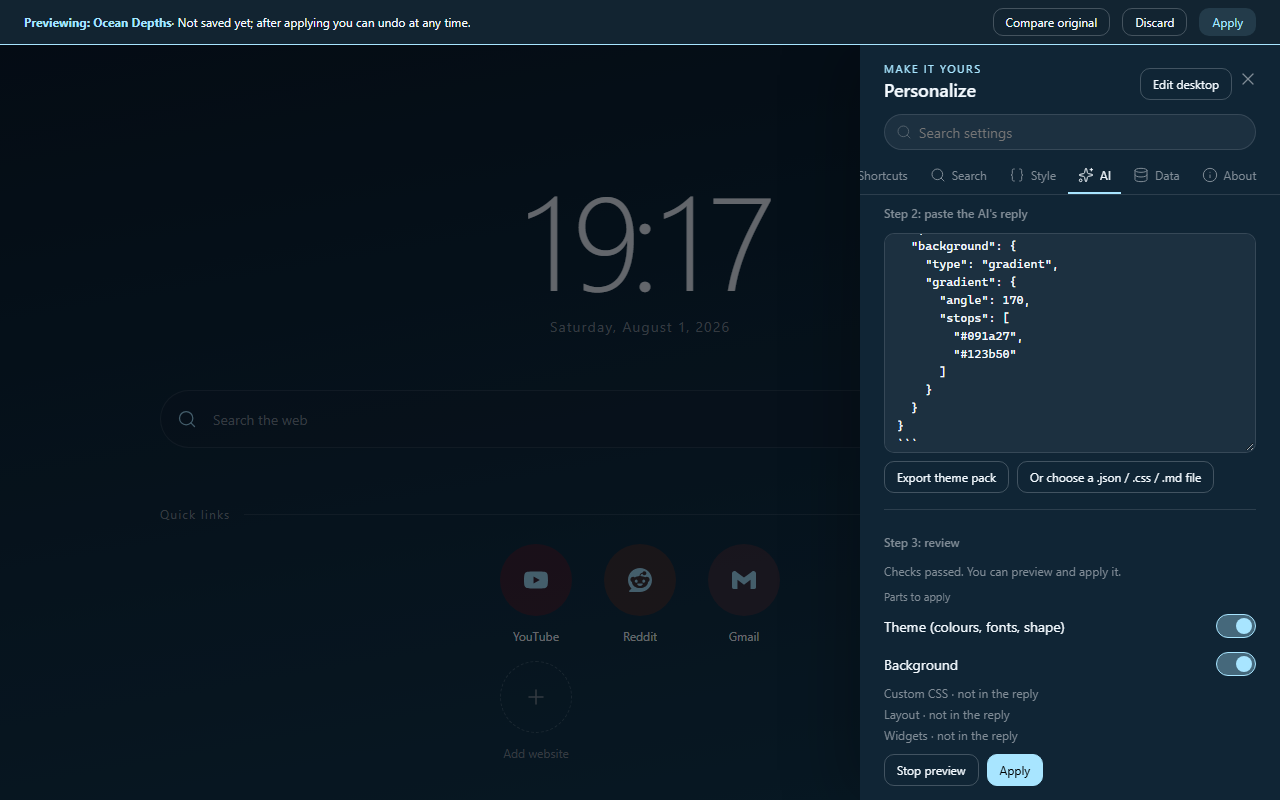
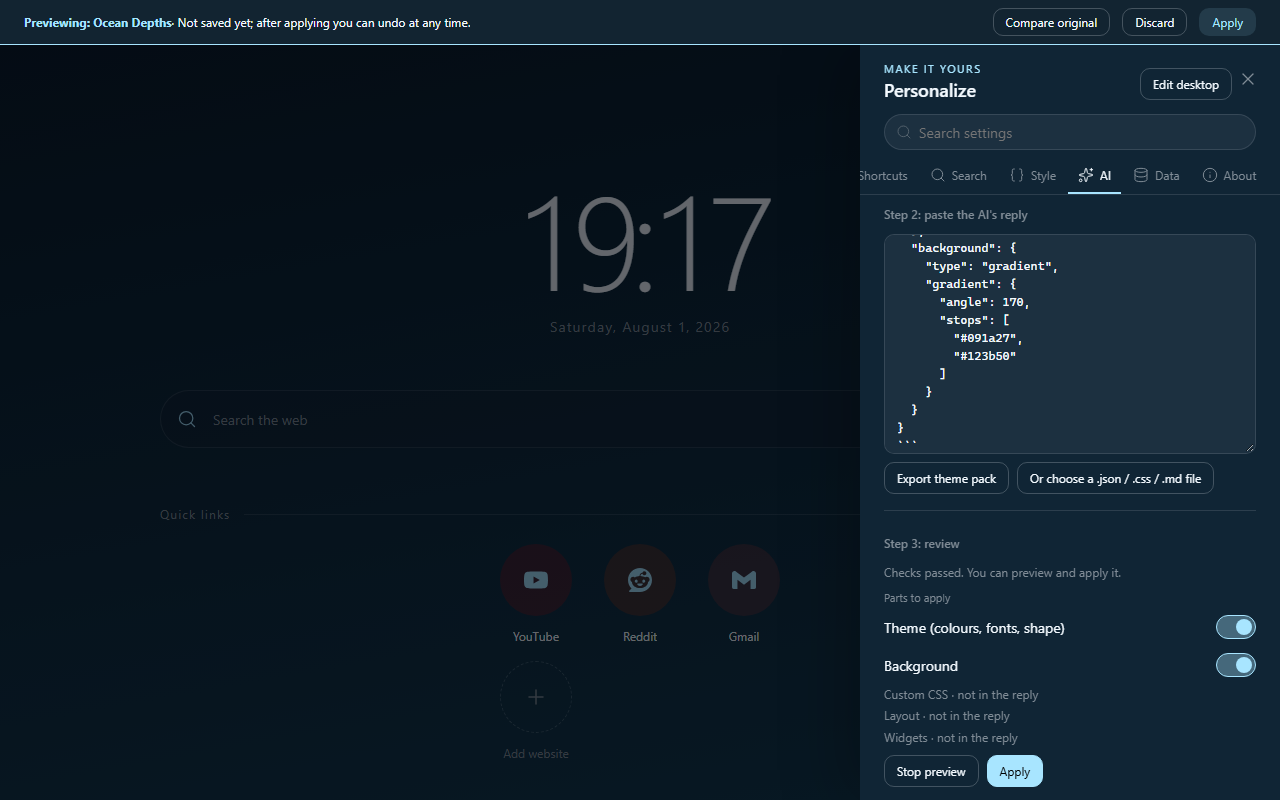
docs: refresh 0.10.0 release materials

diff --git a/docs/privacy/index.html b/docs/privacy/index.html
@@ -30,7 +30,7 @@
       <h2>Privacy policy</h2>
       <p>Promptab is available as a browser extension and a separately hosted web app. The developer does not collect user data. Promptab has no account system, advertising SDK, analytics, telemetry, or developer-operated application server.</p>
       <h3>Extension and web data are separate</h3>
-      <p>The extension stores settings, profiles, bookmarks and shortcuts, layouts, themes, custom CSS, imported themes, and locally added images and fonts in browser-managed extension storage. The web version stores its settings in that website's local storage and its larger assets in browser-local IndexedDB. These stores are separate: using the same browser does not automatically share settings between the extension and web app. Neither sends saved settings to a Promptab server.</p>
+      <p>The extension stores settings and preferences (including keyboard shortcuts and accent behavior), profiles, bookmarks and shortcuts, layouts, themes, custom CSS, saved and imported themes, and locally added images and fonts in browser-managed extension storage. The web version stores its settings in that website's local storage and its larger assets in browser-local IndexedDB. These stores are separate: using the same browser does not automatically share settings between the extension and web app. These features do not contact a Promptab service. Saved themes stay local and are not part of Browser Sync.</p>
       <p>To migrate between versions, export a backup from <strong>Settings → Data → Export backup</strong>, save the file, then use the other version's import control. Import validates the backup before applying it. Backups are files you control; protect or delete them as you choose. Extension-only features such as Browser Sync and browser bookmark import are unavailable on the web version because it has no extension permission APIs.</p>
       <h3>Optional extension bookmark access</h3>
       <p>The extension's <code>bookmarks</code> permission is optional and requested only when you start browser-bookmark import. If granted, Promptab reads the bookmark tree to show available folders, then copies the folders and links you select into the extension's local profile. It does not continuously monitor bookmarks. The web version cannot request this extension permission.</p>
@@ -38,14 +38,14 @@
       <p>Promptab does not run a general data-collection channel. Features you choose can contact other services directly:</p>
       <ul>
         <li>Automatic extension icons use the browser's favicon endpoint when available. The fallback requests <code>/favicon.ico</code> from the shortcut's website. The web version does not have the extension favicon permission; opening shortcuts still contacts their websites.</li>
-        <li>Searches navigate to your selected provider with your query. Remote wallpapers and imported remote images are fetched from their configured URLs.</li>
+        <li>Searches navigate to your selected provider with your query. Wallpaper and shortcut images are managed locally; Promptab does not fetch remote wallpaper or shortcut-image URLs.</li>
         <li>Opening the theme gallery fetches its list from <code>zanderh-code.github.io</code>; selecting a theme fetches its pack from the same host. The list is cached locally for offline browsing.</li>
         <li>The optional weather widget contacts Open-Meteo only after you use a weather action. City search sends the city name to <code>geocoding-api.open-meteo.com</code>; loading weather sends coordinates to <code>api.open-meteo.com</code>. Location is requested only after you click its button, with no background tracking. Weather is cached locally for at least 30 minutes.</li>
         <li>If you choose direct BYOK sending, the browser sends your prompt, selected model, and API key directly to <code>api.anthropic.com</code> or <code>api.openai.com</code>. The web app makes these requests from the browser without a Promptab relay. Anthropic requests include the <code>anthropic-dangerous-direct-browser-access: true</code> header required for direct browser requests; OpenAI requests use bearer authentication. The provider receives the request and handles it under its own terms and privacy policy; API charges may apply.</li>
       </ul>
       <p>BYOK keys are held only in the active page session's memory. They are not written to browser storage or uploaded to Promptab, and are cleared when the page session ends. Promptab does not use feature requests for analytics or sell personal information.</p>
       <h3>Browser Sync and deletion</h3>
-      <p>Browser Sync is an extension-only feature and is off by default. If enabled, shortcut/group data, theme settings, layout and update metadata are written to <code>chrome.storage.sync</code>, which Chrome processes for your signed-in browser account under Google's terms. Wallpaper, video, uploaded fonts and bookmark images stay in local IndexedDB. The web version does not support Browser Sync. Use each version's reset controls or the browser's site/extension data controls to remove local data. Uninstalling removes extension storage subject to browser behavior; exported backups remain wherever saved. This policy may change when data practices change. The Promptab repository provides project contact details.</p>
+      <p>Browser Sync is an extension-only feature and is off by default. If enabled, profile preferences (including keyboard-shortcut and accent-on-open settings), shortcut/group data, theme settings, layout and update metadata are written to <code>chrome.storage.sync</code>, which Chrome processes for your signed-in browser account under Google's terms. Saved themes, wallpaper, video, uploaded fonts and bookmark images stay local and are not synced. The web version does not support Browser Sync. Use each version's reset controls or the browser's site/extension data controls to remove local data. Uninstalling removes extension storage subject to browser behavior; exported backups remain wherever saved. This policy may change when data practices change. The Promptab repository provides project contact details.</p>
     </section>
     <section id="chinese" lang="zh-CN">
       <h2>隐私政策</h2>
@@ -59,14 +59,14 @@
       <p>Promptab 不会通过通用渠道收集数据。你主动使用的功能可能直接联系其他服务：</p>
       <ul>
         <li>扩展的自动网站图标会在可用时使用浏览器 favicon 接口，后备方式会请求快捷方式网站的 <code>/favicon.ico</code>。网页版没有扩展 favicon 权限；打开快捷方式仍会访问相应网站。</li>
-        <li>搜索会携带查询内容跳转到你选择的搜索服务。远程壁纸或导入的远程图片会从配置的网址获取。</li>
+        <li>搜索会携带查询内容跳转到你选择的搜索服务。壁纸和快捷方式图片由本地管理；Promptab 不会获取远程壁纸或快捷方式图片网址。</li>
         <li>打开主题画廊时会从 <code>zanderh-code.github.io</code> 获取主题列表；选择主题时会从同一主机获取主题包。列表会缓存在本地，供离线浏览。</li>
         <li>可选天气组件只在你使用相关操作后联系 Open-Meteo。城市搜索会向 <code>geocoding-api.open-meteo.com</code> 发送城市名称；加载天气会向 <code>api.open-meteo.com</code> 发送坐标。只有点击定位按钮后才请求位置，不会在后台持续跟踪。天气至少在本地缓存 30 分钟。</li>
         <li>如选择 BYOK 直连，你的提示、所选模型和 API 密钥会由浏览器直接发送到 <code>api.anthropic.com</code> 或 <code>api.openai.com</code>，不经过 Promptab 中转。Anthropic 请求会带有其浏览器直连所需的 <code>anthropic-dangerous-direct-browser-access: true</code> 请求头；OpenAI 请求使用 Bearer 身份验证。服务提供商会依据自己的条款和隐私政策处理请求，API 使用可能收费。</li>
       </ul>
       <p>BYOK 密钥只保留在当前页面会话的内存中，不写入浏览器存储，也不会上传给 Promptab；页面会话结束后即被清除。Promptab 不使用这些功能请求进行分析，也不出售个人信息。</p>
       <h3>浏览器同步与数据删除</h3>
-      <p>浏览器同步仅适用于扩展，默认关闭。启用后，快捷方式/分组、主题设置、布局和更新时间会写入 <code>chrome.storage.sync</code>，由 Chrome 根据 Google 条款为你已登录的浏览器账号处理。壁纸、视频、上传的字体和书签图片仍保存在本地 IndexedDB。网页版不支持浏览器同步。你可以使用各版本的重置控件，或浏览器的站点/扩展数据设置删除本地数据。卸载扩展会删除浏览器管理的扩展存储，具体取决于浏览器行为；导出的备份仍保留在保存位置。如果数据处理方式发生变化，本政策可能更新。项目联系信息见 Promptab 仓库。</p>
+      <p>浏览器同步仅适用于扩展，默认关闭。启用后，配置偏好（包括键盘快捷键和打开时的强调色设置）、快捷方式/分组、主题设置、布局和更新时间会写入 <code>chrome.storage.sync</code>，由 Chrome 根据 Google 条款为你已登录的浏览器账号处理。已保存主题、壁纸、视频、上传的字体和书签图片仍保存在本地，不会同步。网页版不支持浏览器同步。你可以使用各版本的重置控件，或浏览器的站点/扩展数据设置删除本地数据。卸载扩展会删除浏览器管理的扩展存储，具体取决于浏览器行为；导出的备份仍保留在保存位置。如果数据处理方式发生变化，本政策可能更新。项目联系信息见 Promptab 仓库。</p>
     </section>
   </main>
 </body>

diff --git a/e2e/mobile.spec.ts b/e2e/mobile.spec.ts
@@ -137,8 +137,14 @@ test('touch controls meet the 44 pixel target size', async ({ page }) => {
   await page.getByRole('dialog', { name: 'Settings' }).getByRole('button', { name: 'Edit desktop' }).click()
   await page.mouse.move(0, 0)
   await expect(page.locator('.shortcut-actions').first()).toHaveCSS('opacity', '1')
-  for (const target of await page.locator('.shortcut-actions button, .drag-handle').all()) {
+  await expect(page.locator('.drag-handle').first()).toBeEnabled()
+  const shortcutControls = page.locator('.shortcut-actions button, .drag-handle')
+  const controlCount = await shortcutControls.count()
+  for (let index = 0; index < controlCount; index++) {
+    const target = shortcutControls.nth(index)
+    await expect(target).toBeVisible()
     const box = await target.boundingBox()
+    expect(box).not.toBeNull()
     expect(box!.width).toBeGreaterThanOrEqual(44)
     expect(box!.height).toBeGreaterThanOrEqual(44)
   }

diff --git a/store/privacy-policy.md b/store/privacy-policy.md
@@ -6,7 +6,7 @@ Promptab is a browser new-tab extension. It is designed to keep user data in the
 
 ## Data stored on your device
 
-The extension stores its settings, profiles, bookmarks/shortcuts, layout and theme choices, custom CSS, imported theme data, and locally added images or fonts in the browser's extension storage. It may use the `unlimitedStorage` permission so larger profiles and locally stored assets can be retained. Browser storage is used locally; the project does not send this stored data to a developer-operated service.
+The extension stores its settings and preferences (including keyboard shortcuts and accent behavior), profiles, bookmarks/shortcuts, layout and theme choices, custom CSS, saved and imported themes, and locally added images or fonts in browser-managed storage. These features do not contact a Promptab service. Saved themes remain local and are not part of Browser Sync. If you enable Browser Sync, profile preferences are included in the data sent to your browser's sync service.
 
 The separately hosted web version has its own browser-local storage and IndexedDB. Its data is separate from extension storage, even in the same browser, and neither version sends saved settings to a Promptab server. Browser Sync and browser-bookmark import depend on extension APIs and are unavailable in the web version.
 
@@ -21,10 +21,9 @@ The extension does not operate a general background data-collection channel. Net
 - When a shortcut uses automatic website icons, the extension first uses the browser's extension favicon endpoint (`/_favicon/`, through the browser favicon API) where available. Its fallback requests the shortcut site's origin at `/favicon.ico`. Those requests can reveal the relevant URL to the browser and, for the fallback, to that website's server. A custom icon or manually selected icon mode can avoid these favicon requests.
 - When you submit a search, the browser navigates to the search URL template configured in your settings. Your query is sent to the search provider you selected, under that provider's privacy policy.
 - When you open a shortcut, the browser navigates to that website. The destination receives the request according to its own policies.
-- If you choose a remote wallpaper or import a remote image into a shortcut, the browser fetches that URL so the image can be displayed and stored locally. The remote host may receive the request.
 - The optional weather widget contacts Open-Meteo only after you click a weather action. City search sends the city name to `https://geocoding-api.open-meteo.com/*`. Loading weather sends the selected city's coordinates, or coordinates from a one-time location request, to `https://api.open-meteo.com/*`. Current location is requested only after you click the location button; the extension does not track location in the background. Weather responses are cached locally for at least 30 minutes and may be shown with their last-updated time when offline.
 
-When you enable Browser Sync in Settings, the extension writes only shortcut/group data, theme settings, profile layout and update metadata to the browser's `storage.sync` API. Your browser's sync service processes that data for your signed-in browser account under its provider's terms. Wallpaper images and video, uploaded fonts, and bookmark images remain in local IndexedDB and are not included. Sync is off by default; turning it off stops synchronization on that device. You can separately remove Promptab's browser sync data. The extension does not send these sync records to a Promptab server.
+When you enable Browser Sync in Settings, the extension writes profile preferences, shortcut/group data, theme settings, profile layout and update metadata to the browser's `storage.sync` API. This includes keyboard-shortcut and accent-on-open preferences. Your browser's sync service processes that data for your signed-in browser account under its provider's terms. Saved themes, wallpaper images and video, uploaded fonts, and bookmark images remain local and are not included. Sync is off by default; turning it off stops synchronization on that device. You can separately remove Promptab's browser sync data. The extension does not send these sync records to a Promptab server.
 
 The extension does not sell personal information or use these direct feature requests for its own analytics.
 
@@ -36,7 +35,7 @@ Backup and export actions create files or copied data only when you request them
 
 The web app stores settings in that site's local storage and larger assets in browser-local IndexedDB. This store is separate from extension storage. To migrate a setup between the web app and extension, export a backup through **Settings → Data → Export backup**, then import the file in the other version. Import validates the backup before applying it. Backups remain under your control.
 
-The web app has no extension APIs, so Browser Sync and browser-bookmark import are unavailable. The app can contact services when you use their features: the GitHub Pages host for the theme gallery and selected packs; Open-Meteo for city searches and weather after you request it; search providers, shortcut sites and image hosts when you open or load their URLs; and Anthropic or OpenAI when you choose direct BYOK sending. The web BYOK request goes directly from your browser to the selected provider, including Anthropic's `anthropic-dangerous-direct-browser-access: true` header for Anthropic requests. Provider terms, privacy policies and charges apply. The site host serves the static page and assets; it does not receive your saved app settings through a Promptab application server.
+The web app has no extension APIs, so Browser Sync and browser-bookmark import are unavailable. The app can contact services when you use their features: the GitHub Pages host for the theme gallery and selected packs; Open-Meteo for city searches and weather after you request it; search providers and shortcut sites when you open their URLs; and Anthropic or OpenAI when you choose direct BYOK sending. The web BYOK request goes directly from your browser to the selected provider, including Anthropic's `anthropic-dangerous-direct-browser-access: true` header for Anthropic requests. Provider terms, privacy policies and charges apply. The site host serves the static page and assets; it does not receive your saved app settings through a Promptab application server.
 
 ## Data deletion
 
@@ -54,10 +53,10 @@ This policy is informational and is not legal advice.
 
 Promptab 不包含账号、广告 SDK、分析或遥测服务。设置、配置文件、书签/快捷方式、主题、自定义 CSS 以及本地图片和字体保存在浏览器扩展存储中。`bookmarks` 权限为可选权限，仅在你主动选择导入浏览器书签时请求；拒绝后仍可使用其他功能。
 
-浏览器同步默认关闭。启用后，快捷方式/分组、主题设置、布局和更新时间会写入浏览器的 `storage.sync` 接口，由浏览器同步服务根据其提供商的条款为你已登录的浏览器账号处理。壁纸、视频、上传的字体和书签图片仍保存在本地 IndexedDB。关闭同步只会停止当前设备的同步；你可以另行删除 Promptab 的同步数据。扩展不会把同步记录发送到 Promptab 服务器。
+浏览器同步默认关闭。启用后，配置偏好（包括键盘快捷键和打开时的强调色行为）、快捷方式/分组、主题设置、布局和更新时间会写入浏览器的 `storage.sync` 接口，由浏览器同步服务根据其提供商的条款为你已登录的浏览器账号处理。已保存主题、壁纸、视频、上传的字体和书签图片仍保存在本地，不会同步。关闭同步只会停止当前设备的同步；你可以另行删除 Promptab 的同步数据。扩展不会把同步记录发送到 Promptab 服务器。
 
 AI 工作台可以手动复制提示包，也可以使用你自己的 API 密钥直接发送给 Anthropic 或 OpenAI。点击发送时会请求所选服务商域名的可选访问权限，并向其发送提示包、模型和密钥；提示包包含你的需求，不会自动附带当前主题、CSS 或书签；你在需求中输入的内容会被包含。密钥仅保留在当前页面会话内存中，不写入浏览器存储，也不会上传给 Promptab；页面会话结束后即被清除。Anthropic 浏览器直连请求会带有 `anthropic-dangerous-direct-browser-access: true` 请求头。服务商的隐私政策和收费标准适用，API 使用可能产生费用。
 
-网页版将设置保存在网站本地存储中，并将较大的资源保存在浏览器本地 IndexedDB 中，与扩展存储分开。可通过「设置 → 数据 → 导出备份」再在另一个版本中导入来迁移配置。网页版不支持依赖扩展 API 的浏览器同步和浏览器书签导入。使用画廊、天气、搜索、快捷方式、远程图片或 BYOK 时，浏览器会直接联系相应的网站或服务提供商；提供商条款和隐私政策适用。
+网页版将设置保存在网站本地存储中，并将较大的资源保存在浏览器本地 IndexedDB 中，与扩展存储分开。可通过「设置 → 数据 → 导出备份」再在另一个版本中导入来迁移配置。网页版不支持依赖扩展 API 的浏览器同步和浏览器书签导入。使用画廊、天气、搜索、快捷方式或 BYOK 时，浏览器会直接联系相应的网站或服务提供商；提供商条款和隐私政策适用。
 
-自动网站图标会优先使用浏览器的 favicon 接口，并可能回退请求相应网站 origin 的 `/favicon.ico`。搜索提交会把查询发送到你配置的搜索服务，打开快捷方式会访问对应网站；远程壁纸或远程图片导入也会向相应地址发起请求。可选天气组件只在你点击相关操作后联系 Open-Meteo：城市搜索会发送城市名称，加载天气会发送所选城市坐标或一次性定位得到的坐标。只有点击定位按钮后才请求当前位置，不会在后台持续跟踪。天气结果至少在本地缓存 30 分钟，离线时可以显示缓存和更新时间。这些请求由你主动使用的功能触发，并受目标服务的隐私政策约束。扩展本身不通过这些请求进行分析或出售个人信息。
+自动网站图标会优先使用浏览器的 favicon 接口，并可能回退请求相应网站 origin 的 `/favicon.ico`。搜索提交会把查询发送到你配置的搜索服务，打开快捷方式会访问对应网站。壁纸和快捷方式图片在本地管理，不会从远程网址获取。可选天气组件只在你点击相关操作后联系 Open-Meteo：城市搜索会发送城市名称，加载天气会发送所选城市坐标或一次性定位得到的坐标。只有点击定位按钮后才请求当前位置，不会在后台持续跟踪。天气结果至少在本地缓存 30 分钟，离线时可以显示缓存和更新时间。这些请求由你主动使用的功能触发，并受目标服务的隐私政策约束。扩展本身不通过这些请求进行分析或出售个人信息。

diff --git a/store/listing.md b/store/listing.md
@@ -4,23 +4,25 @@
 
 ### Short description
 
-Your new tab, designed by your AI.
+A new tab for your themes, shortcuts, and daily flow.
 
 ### Full description
 
 **Describe it. Preview it. Make it yours.** Promptab turns your new tab into a customizable home for the things you use every day. Ask an AI assistant to design a theme, paste its reply, and preview the result before applying it. The manual workflow needs no Promptab account or API key. You can also send a request directly to Anthropic or OpenAI with your own session-only API key; provider charges may apply.
 
-- Build a dashboard with clocks, dates, search, shortcuts, bookmark groups, and flexible layouts.
-- Browse the theme gallery, preview themes, and personalize colors, fonts, shapes, and CSS.
+- Build a dashboard with clocks, dates, week numbers, search, shortcuts, bookmark groups, and flexible layouts.
+- Browse the public theme gallery, preview themes, and try them in the hosted web app or installable PWA.
+- Personalize colors, fonts, shapes, and CSS; export theme packs or save themes locally for later.
 - Add local image or video wallpapers and rotate a selection of wallpapers.
 - Add Todo, Note, Countdown, and optional weather widgets. Weather requests happen only after you choose a weather action.
-- Keep separate profiles, undo changes, and export or restore a backup.
-- Opt in to browser sync for profile settings and shortcuts across signed-in devices. Wallpapers, videos, fonts, and uploaded shortcut images stay local.
+- Set new-tab links to open where you prefer, use keyboard shortcuts, and choose an accent on open or cycle through its palette.
+- Keep separate profiles, undo changes, and restore selected backup sections with one undo action.
+- Opt in to browser sync for profile preferences, theme settings, layout, and shortcuts across signed-in devices. Wallpapers, videos, fonts, uploaded shortcut images, and saved themes stay local.
 - Import selected browser-bookmark folders only after granting the optional bookmarks permission.
 - Choose automatic website icons, brand icons, Lucide icons, text, emoji, or your own images.
-- Use the extension in English or Simplified Chinese. A separate desktop Firefox build is available.
+- Use the extension in English or Simplified Chinese. A separate desktop Firefox build is available, with touch-friendly mobile layouts and group menus.
 
-Promptab stores its data in browser-managed extension storage and has no Promptab account, advertising SDK, analytics, or developer-operated application server. Opening the gallery fetches its index and selected packs from zanderh-code.github.io. When you use optional features, the selected AI provider receives the prompt, model, and API key; Open-Meteo receives the city or coordinates used for weather; and your browser's sync service processes synced profile data. Search providers, shortcut destinations, favicon sites, and configured remote image hosts receive the requests needed for those features.
+Promptab stores its data in browser-managed extension storage and has no Promptab account, advertising SDK, analytics, or developer-operated application server. Opening the gallery fetches its index and selected packs from zanderh-code.github.io. When you use optional features, the selected AI provider receives the prompt, model, and API key; Open-Meteo receives the city or coordinates used for weather; and your browser's sync service processes synced profile data. Search providers, shortcut destinations, and favicon sites receive the requests needed for those features. Wallpaper images and shortcut images are stored locally; Promptab does not fetch remote wallpaper or shortcut-image URLs.
 
 ### Permissions
 
@@ -32,7 +34,7 @@ Promptab stores its data in browser-managed extension storage and has no Prompta
 
 ### Firefox Add-ons (AMO)
 
-**Summary:** A customizable new tab with AI-assisted themes, shortcuts, widgets, optional weather, and browser sync.
+**Summary:** A customizable new tab with a public theme gallery, saved and shareable themes, flexible layouts, shortcuts, widgets, optional weather, keyboard controls, and browser sync.
 
 **Category:** Productivity
 
@@ -44,23 +46,25 @@ Promptab stores its data in browser-managed extension storage and has no Prompta
 
 ### 短描述
 
-一句话，让你的 AI 帮你设计新标签页。
+主题、快捷方式与日常安排，都放进新标签页。
 
 ### 完整介绍
 
 **描述想法、预览效果，打造属于你的新标签页。** Promptab 让你自定义每天都会使用的主页。你可以让 AI 助手设计主题、粘贴回复，并在应用前预览。手动复制粘贴不需要 Promptab 账号或 API 密钥；也可以使用仅保存在当前界面会话中的密钥直接发送给 Anthropic 或 OpenAI，服务商可能收费。
 
-- 使用时钟、日期、搜索、快捷方式和书签分组搭建主页，自由调整布局。
-- 浏览主题画廊，在应用前预览，并调整颜色、字体、形状和 CSS。
+- 使用时钟、日期、周数、搜索、快捷方式和书签分组搭建主页，自由调整布局。
+- 浏览公开主题画廊，在应用前预览，也可在网页版试用主题；网页版支持安装为 PWA。
+- 调整颜色、字体、形状和 CSS；导出主题包分享，或在本地保存主题以便稍后使用。
 - 使用本地图片或视频壁纸，轮换选择的壁纸。
 - 添加待办、便签、倒计时和可选天气组件；只有主动使用天气功能时才发送天气请求。
-- 创建多个配置档、撤销更改，并导出或恢复备份。
-- 可选择开启浏览器同步，在已登录的设备之间同步配置和快捷方式；壁纸、视频、字体及上传的快捷方式图片保留在本地。
+- 设置链接打开方式，使用键盘快捷键，并选择打开时更换强调色或循环调色板。
+- 创建多个配置档、撤销更改，并选择恢复备份内容；整次恢复可一步撤销。
+- 可选择开启浏览器同步，在已登录的设备之间同步配置偏好、主题、布局和快捷方式；壁纸、视频、字体、上传的快捷方式图片及已保存主题保留在本地。
 - 仅在你授权可选书签权限后，导入所选浏览器书签文件夹。
 - 使用网站自动图标、品牌图标、Lucide 图标、文字、表情或自己的图片。
-- 支持中文和英文界面，并提供独立的桌面 Firefox 构建。
+- 支持中文和英文界面、移动触控布局及分组菜单，并提供独立的桌面 Firefox 构建。
 
-Promptab 将数据保存在浏览器管理的扩展存储中，不含 Promptab 账号、广告 SDK、分析或开发者运营的应用服务器。打开画廊时会从 zanderh-code.github.io 获取索引和选中的主题包。使用可选功能时，所选 AI 服务商会收到提示、模型和 API 密钥；Open-Meteo 会收到天气查询所需的城市或坐标；浏览器同步服务会处理你选择同步的配置。搜索服务、快捷方式网站、网站图标来源及配置的远程图片主机也会收到相应请求。
+Promptab 将数据保存在浏览器管理的扩展存储中，不含 Promptab 账号、广告 SDK、分析或开发者运营的应用服务器。打开画廊时会从 zanderh-code.github.io 获取索引和选中的主题包。使用可选功能时，所选 AI 服务商会收到提示、模型和 API 密钥；Open-Meteo 会收到天气查询所需的城市或坐标；浏览器同步服务会处理你选择同步的配置。搜索服务、快捷方式网站及网站图标来源也会收到相应请求。壁纸和快捷方式图片保存在本地；Promptab 不会获取远程壁纸或快捷方式图片网址。
 
 ## Support and privacy
 

diff --git a/CHANGELOG.md b/CHANGELOG.md
@@ -9,16 +9,22 @@ All notable changes to Promptab are documented here. This project follows [Keep 
 ### Added
 
 - Use your own Anthropic or OpenAI API key to send a theme request directly, or continue using the manual copy-and-paste workflow. Keys remain in the interface session and provider charges may apply.
-- Browse the theme gallery and preview theme packs before applying them.
-- Use local video wallpapers and rotate selected wallpapers.
+- Browse the public theme gallery, preview packs, and try themes in the hosted web app.
+- Use the hosted web app as an installable PWA, with public guides and API references.
+- Share themes by exporting portable theme packs. Save themes locally for later use.
+- Use local image and video wallpapers, rotate selected wallpapers, and customize the new-tab experience with more layout and opening options.
+- Open all links in a group, including large groups, with keyboard- and touch-friendly group menus.
 - Add Todo, Note, Countdown, and optional weather widgets to the new tab.
 - Opt in to browser profile sync across devices. Large local assets remain on the device.
+- Find keyboard shortcuts, choose an accent on open, and use the accent palette cycle.
+- Show week numbers, choose the week start, and optionally add a greeting transition line.
+- Restore selected backup sections and undo the restore as one change.
 - Build and temporarily install a separate Firefox extension package.
 
 ### Changed
 
 - Load bookmark editing and the brand icon catalog on demand to reduce startup JavaScript.
-- Improve profile sync handling, local recovery, and simultaneous wallpaper rotation.
+- Improve mobile and dashboard layouts, profile sync handling, local recovery, and simultaneous wallpaper rotation.
 
 ## [0.9.0]
 

diff --git a/PLAN.md b/PLAN.md
@@ -1,5 +1,29 @@
 # Promptab：产品与实施计划 v2
 
+## Release status — 0.10.0
+
+M6–M20 are complete; release materials are being refreshed. Main commits:
+
+- M6 optional AI, wallpaper, widgets, weather, and sync: `cb7ad67`, `c2a7c5c`, `16b98b5`, `17f1d62`, `15a8d62`
+- M7 Firefox runtime and package: `7a24801`, `2415cb6`
+- M8 0.10.0 packaging and store materials: `4c6cd36`, `6eb1c24`, `7842086`
+- M9 mobile and touch support: `14f4a8b`
+- M10 hosted web app and PWA: `a108b64`, `61cf0d0`
+- M11 public theme gallery: `6d4720e`, `94ccc93`
+- M12 gallery links into web previews: `1ae41cf`
+- M13 public guides and API references: `4bccf1b`, `e76fbfc`
+- M14 gallery layout and visual quality: `f0d3c3a`
+- M15 responsive clock and layout fixes: `5fb7cb5`, `18ff047`, `40dea60`
+- M16 runtime localization: `7c1fe12`
+- M17 portable theme export and sharing: `ff47a94`, `878b659`
+- M18 export fidelity and filenames: `c3de9c1`, `1fe9a69`
+- M19 new-tab preferences and saved themes: `cf01dc8`
+- M20 keyboard/touch menus, date/greeting options, and selective backup restore: `ce11152`, `59219df`, `35834a1`, `a1fb099`, `5be14f4`
+
+Remaining: submit the store listings; perform manual checks in real Firefox; consider embedding wallpapers in theme packs after a format change; remote image wallpapers remain intentionally unsupported.
+
+---
+
 日期：2026-10-31（取代同日的 v1 计划）  
 产品名：Promptab  
 配套文档：[docs/DESIGN.md](docs/DESIGN.md)（美学设计指南）
